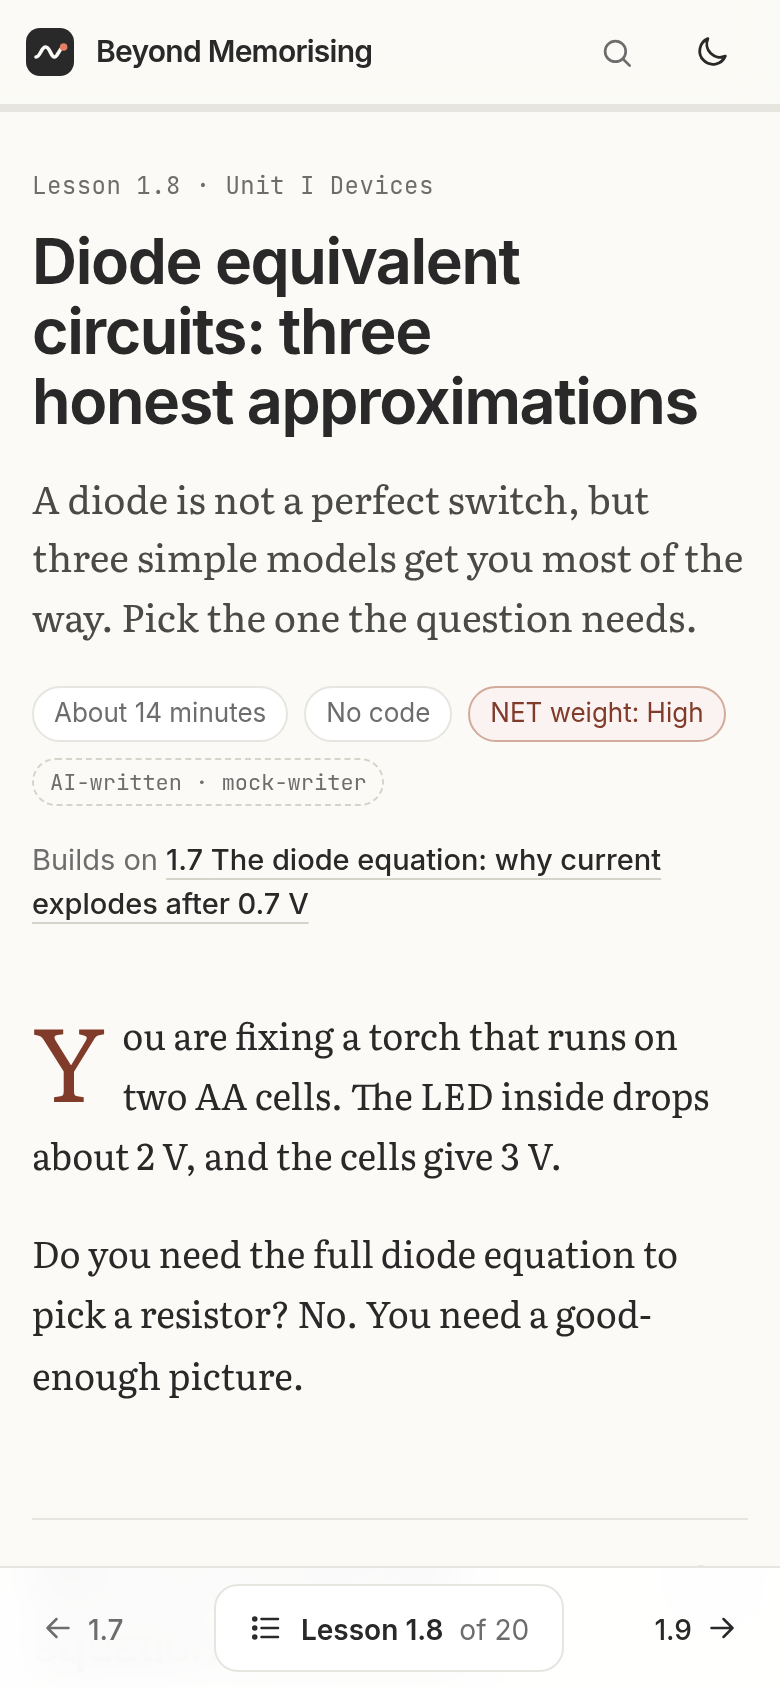
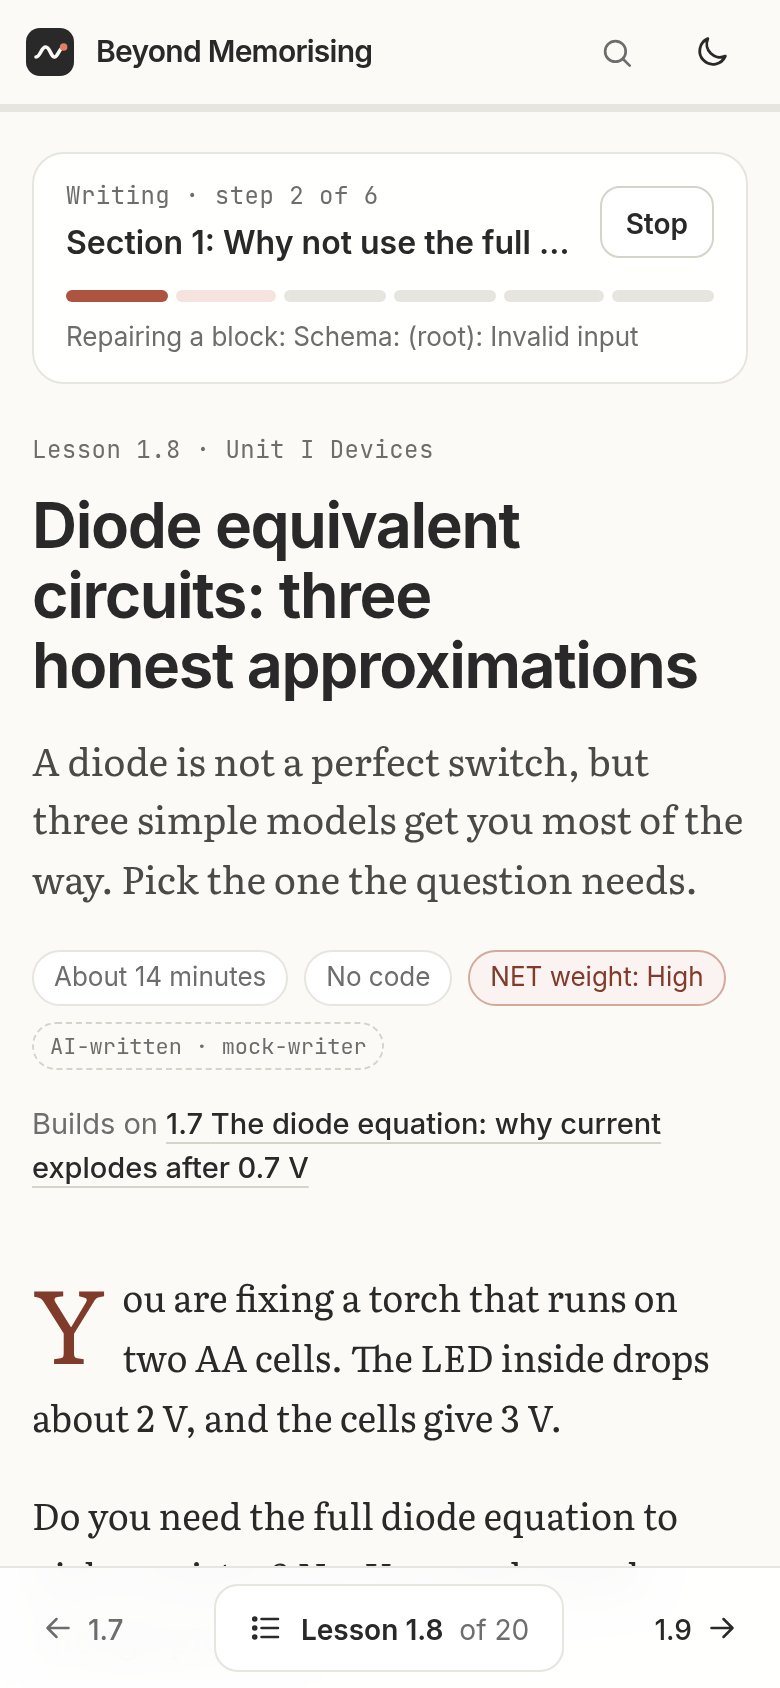
AI layer: Go deeper + doubts on published lessons; published index regenerated

diff --git a/components/ai/JsonLessonPage.tsx b/components/ai/JsonLessonPage.tsx
@@ -4,6 +4,7 @@ import { ReadingProgress } from '@/components/lesson/Interactive';
 import { LessonBottomBar, LessonSidebar } from '@/components/lesson/LessonNav';
 import { unitBySlug } from '@/lib/curriculum';
 import LessonView from './LessonView';
+import { DoubtLauncher, GoDeeperButton } from './Launchers';
 import { lessonLink } from '@/lib/links';
 
 /** A JSON lesson rendered as a full static page (golden example, published AI lessons). */
@@ -17,7 +18,9 @@ export default function JsonLessonPage({ doc, tag }: { doc: LessonDoc; tag?: str
       <div className="mx-auto flex max-w-[1180px] gap-10 px-4 sm:px-6 lg:px-8">
         {unit && <LessonSidebar unitSlug={unit.slug} current={doc.id} />}
         <article className="min-w-0 max-w-[720px] flex-1 pb-16 pt-7 sm:pt-10">
-          <LessonView doc={doc} next={next} tag={tag ? <span className="ai-tag">{tag}</span> : undefined} />
+          <LessonView doc={doc} next={next} tag={tag ? <span className="ai-tag">{tag}</span> : undefined} actions={<div className="reveal mt-5 flex flex-wrap gap-2"><GoDeeperButton lessonId={doc.id} query={doc.title} /></div>}>
+            <div className="mt-10"><DoubtLauncher title={`${doc.number} ${doc.title}`} contextText={doc.blocks.map((b) => ('text' in b && typeof b.text === 'string' ? b.text : b.type === 'section' ? `## ${b.title}` : '')).filter(Boolean).join('\n').slice(0, 9000)} /></div>
+          </LessonView>
         </article>
       </div>
       {unit && <LessonBottomBar unitSlug={unit.slug} current={doc.id} />}
